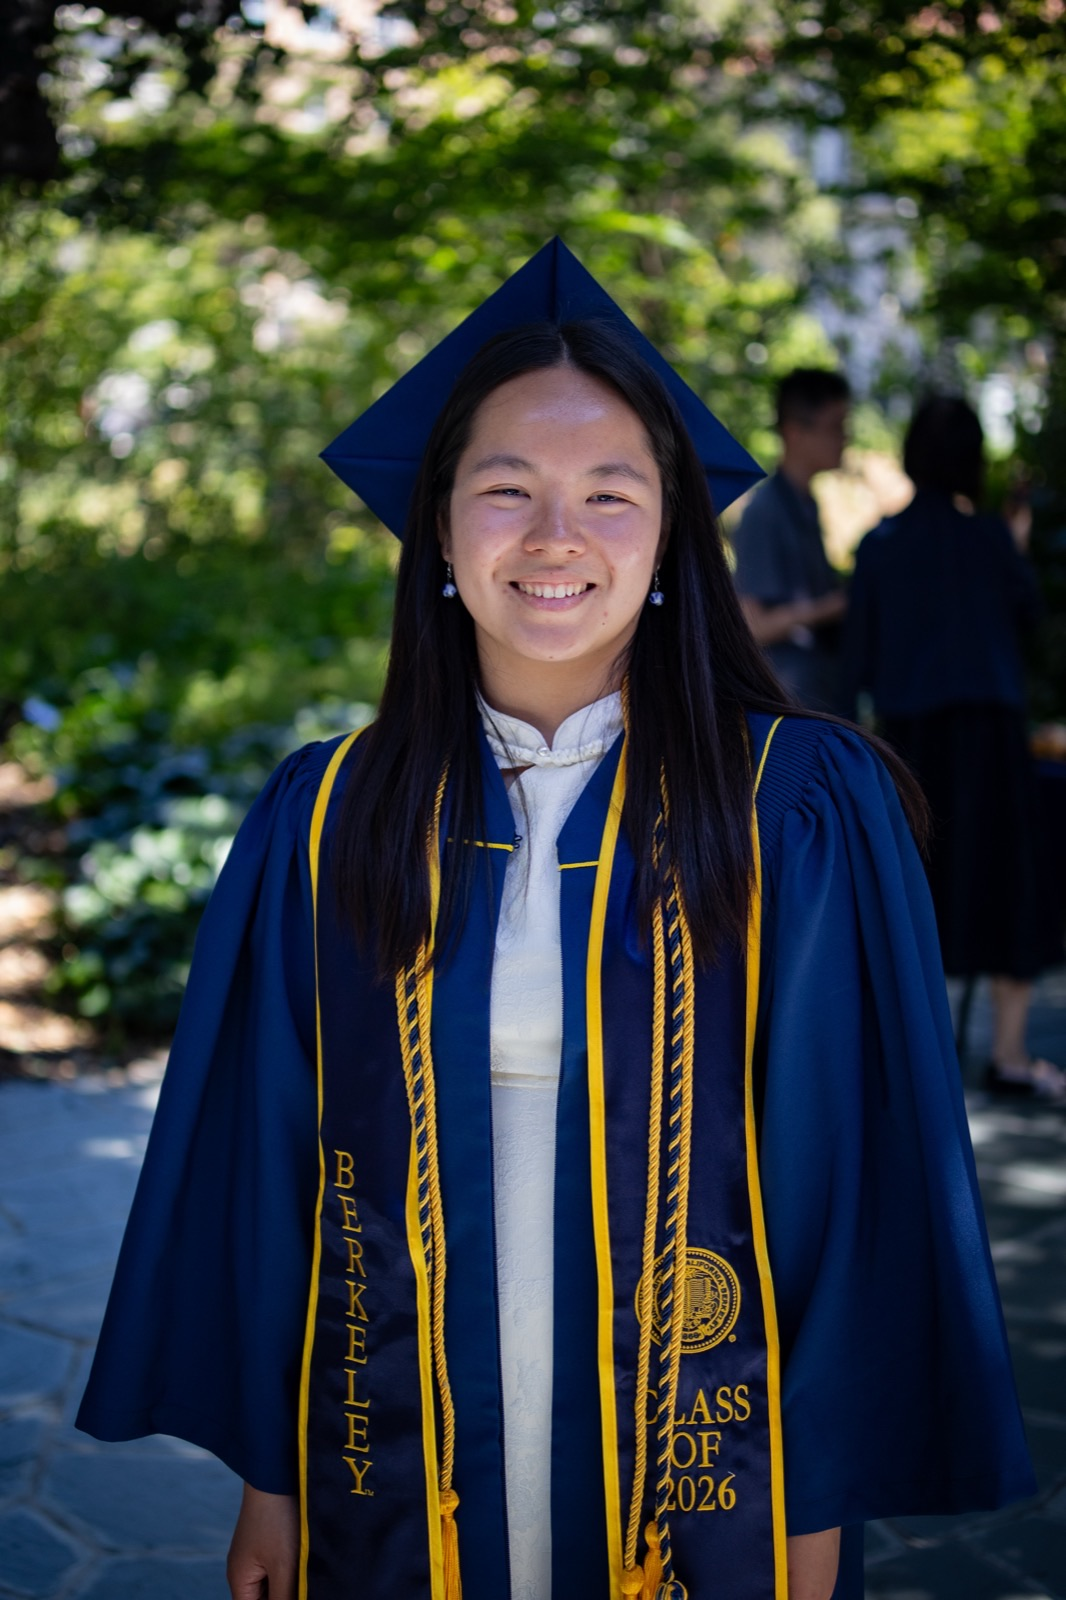
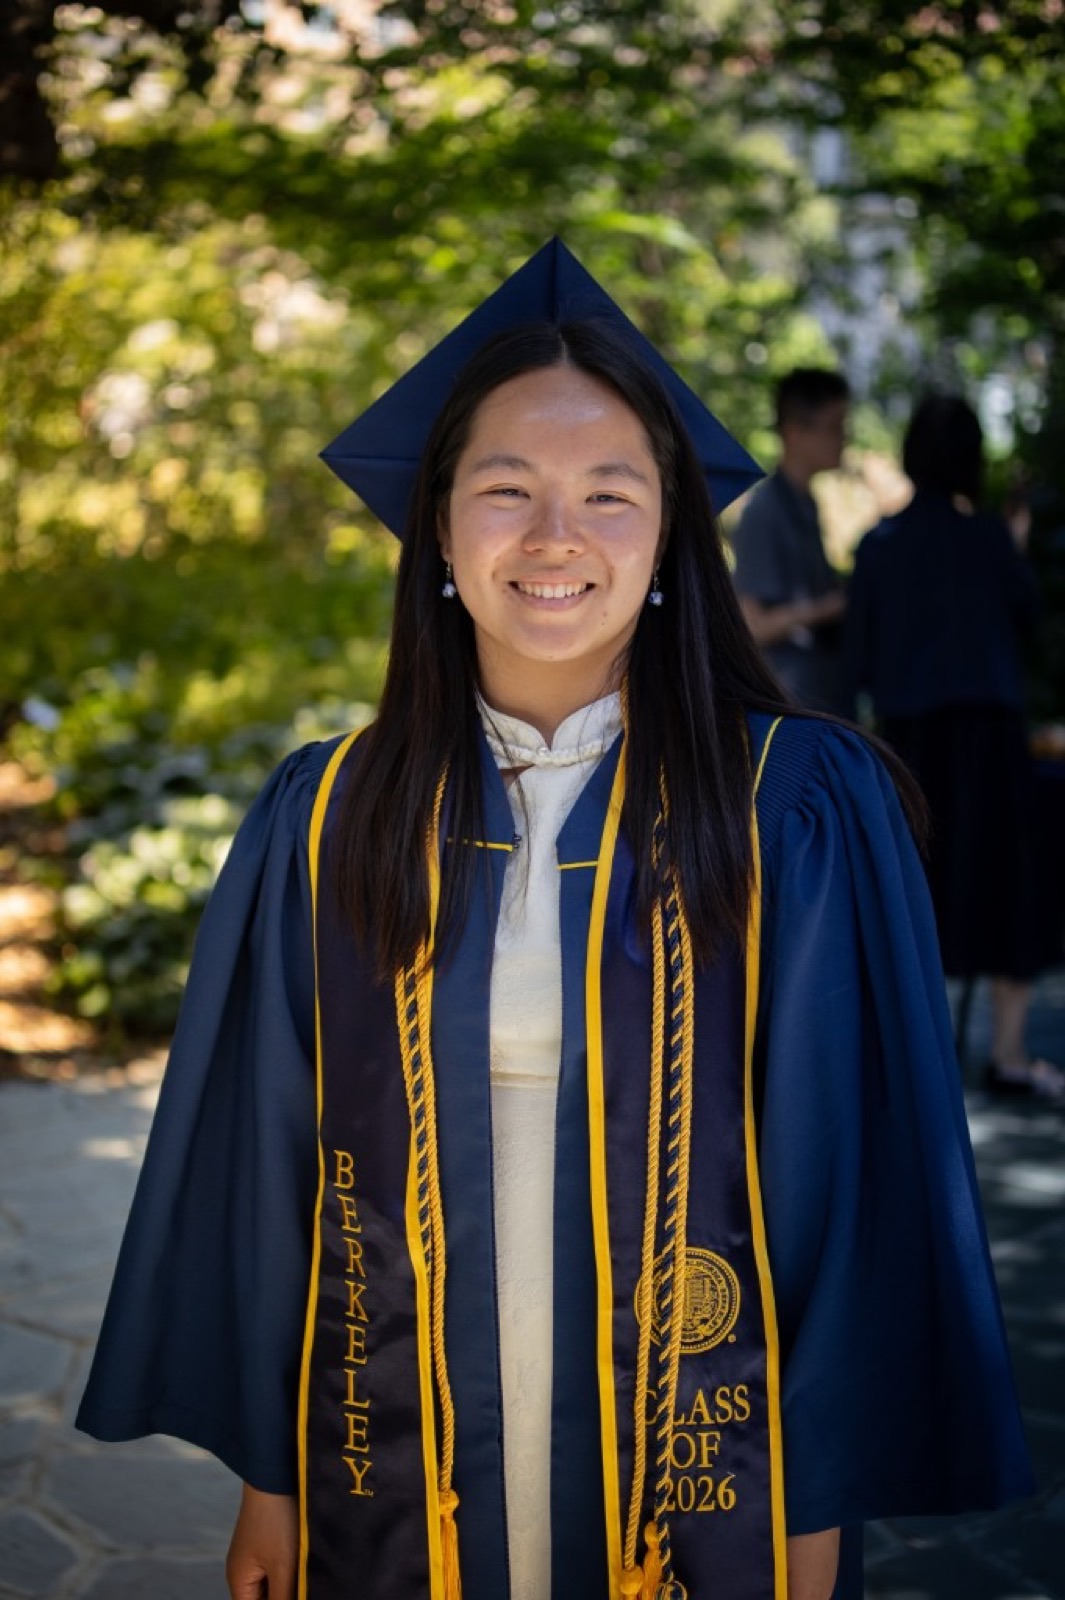
update photos

diff --git a/src/data/galleries.js b/src/data/galleries.js
@@ -43,7 +43,7 @@ export const portraitImages = [
   },
   {
     src: '/images/portraits/IMG_3853.jpg',
-    alt: 'Graduate portrait in campus greenery',
+    alt: 'Graduate in cap and gown on campus',
     session: 'grad',
     theme: 'bright',
   },
@@ -58,6 +58,11 @@ export const eventImages = [
   {
     src: '/images/events/IMG_3619.jpg',
     alt: 'Archers aiming compound bows at competition',
+    category: 'sports',
+  },
+  {
+    src: '/images/events/IMG_3556.jpg',
+    alt: 'Archer with compound bow at full draw',
     category: 'sports',
   },
   {
